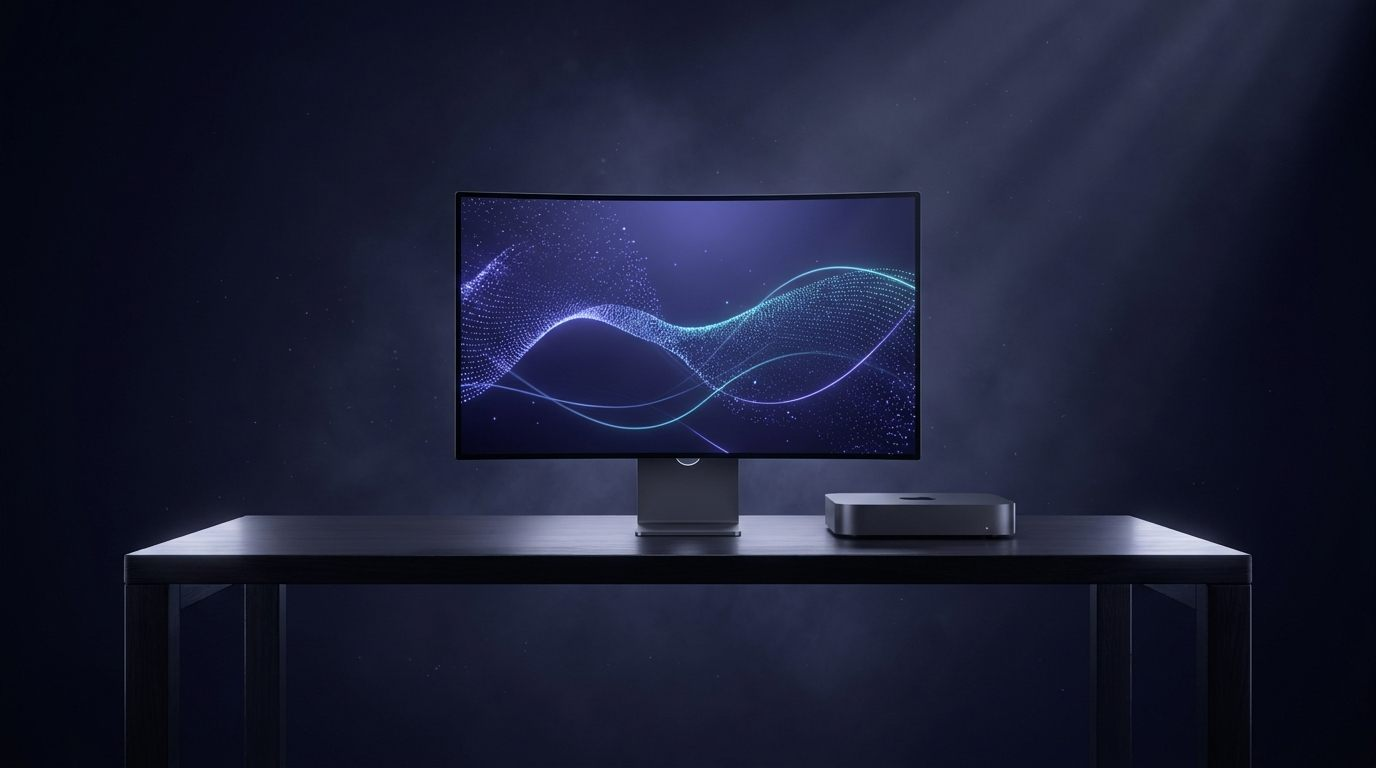
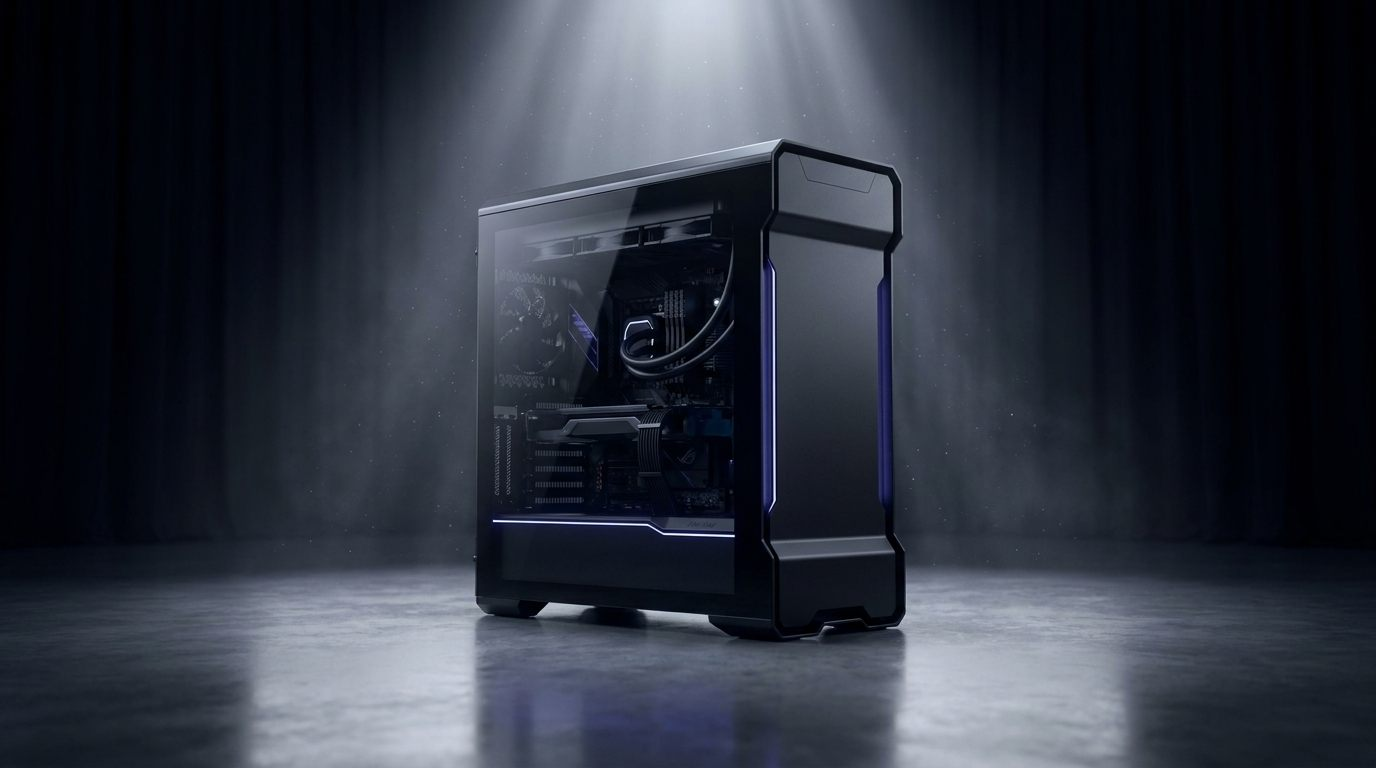
Roboter klickbar (Sprechblase wie RTC), Alienware-PC-Animation (leuchtet/faehrt hoch), Taste-Pass: Hero-Tagline raus + Eyebrows reduziert

diff --git a/static/js/main.js b/static/js/main.js
@@ -59,6 +59,42 @@
   (function initRobot() {
     const stage = document.getElementById("robotStage");
     if (!stage) return;
+
+    // Klickbarer Assistent (wie RTC): Sprechblase + Hinweis. Funktioniert immer,
+    // egal ob der 3D-Roboter oder der Fallback-Cutout angezeigt wird.
+    let viewer = null;
+    (function enableRobotChat() {
+      const bubble = document.getElementById("robotBubble");
+      const hint = document.getElementById("robotHint");
+      const tap = document.getElementById("robotTap");
+      if (!bubble) return;
+      const msgs = [
+        "Hi! Schön, dass du da bist.",
+        "Wir bauen Webseiten, Hosting, KI und SEO. Alles aus einer Hand.",
+        "Schon ab 350 Euro hast du deine eigene Webseite.",
+        "Tipp: Hol dir ein unverbindliches Angebot in 24 Stunden.",
+        "Bereit? Klick auf Projekt anfragen, wir melden uns schnell.",
+      ];
+      let idx = -1, hideT, started = false;
+      function say() {
+        started = true;
+        idx = (idx + 1) % msgs.length;
+        bubble.textContent = msgs[idx];
+        bubble.classList.add("show");
+        if (hint) hint.classList.remove("show");
+        clearTimeout(hideT);
+        hideT = setTimeout(function () { bubble.classList.remove("show"); }, 4400);
+      }
+      stage.addEventListener("click", say);
+      stage.addEventListener("keydown", function (e) { if (e.key === "Enter" || e.key === " ") { e.preventDefault(); say(); } });
+      if (hint) hint.addEventListener("click", function (e) { e.stopPropagation(); say(); });
+      if (tap) tap.addEventListener("click", function (e) { e.stopPropagation(); say(); });
+      stage.classList.add("chat-on");
+      if (hint && !reduce) setTimeout(function () {
+        if (!started) { hint.classList.add("show"); setTimeout(function () { if (!started) hint.classList.remove("show"); }, 6000); }
+      }, 1800);
+    })();
+
     const hasWebGL = (function () {
       try { const c = document.createElement("canvas");
         return !!(window.WebGLRenderingContext && (c.getContext("webgl") || c.getContext("experimental-webgl")));
@@ -75,11 +111,11 @@
     runtime.src = "https://unpkg.com/@splinetool/viewer@1.12.97/build/spline-viewer.js";
     document.head.appendChild(runtime);
 
-    const viewer = document.createElement("spline-viewer");
+    viewer = document.createElement("spline-viewer");
     viewer.setAttribute("url", url);
     viewer.style.cssText = "width:100%;height:100%;display:block;background:transparent";
-    if (isMobile) viewer.style.pointerEvents = "none"; // Mobile: Scrollen nicht blockieren
     canvas.appendChild(viewer);
+    viewer.addEventListener("click", function () { stage.click(); }); // Klick auf 3D-Roboter -> Sprechblase
 
     let settled = false;
     const ready = function () {

diff --git a/templates/index.html b/templates/index.html
@@ -55,10 +55,9 @@
           <a class="btn btn-lg btn-magnetic" href="#kontakt">{{ c.cta_text }}<svg viewBox="0 0 24 24" class="ic-arrow" aria-hidden="true"><path d="M5 12h14M13 6l6 6-6 6" fill="none" stroke="currentColor" stroke-width="1.8" stroke-linecap="round" stroke-linejoin="round"/></svg></a>
           <a class="btn btn-ghost btn-lg" href="#leistungen">Leistungen ansehen</a>
         </div>
-        <p class="hero-note">{{ c.cta_sub }}</p>
       </div>
       <div class="hero-figure" data-reveal>
-        <div class="robot-stage" id="robotStage" data-spline="https://prod.spline.design/kZDDjO5HuC9GJUM2/scene.splinecode">
+        <div class="robot-stage" id="robotStage" role="button" tabindex="0" aria-label="3D-Assistent, klick mich" data-spline="https://prod.spline.design/kZDDjO5HuC9GJUM2/scene.splinecode">
           <div class="hero-figure-glow" aria-hidden="true"></div>
           <!-- 3D-Roboter (Spline) folgt der Maus; wird per JS auf Geräten mit WebGL eingehängt -->
           <div class="robot-canvas" id="robotCanvas" aria-hidden="true">
@@ -66,7 +65,11 @@
           </div>
           <!-- Fallback: freigestellter Roboter (ohne WebGL / reduced-motion) -->
           {% if c.robot_image %}<img src="{{ c.robot_image }}" alt="WVM-IT Assistent" class="robot robot-fallback" width="820" height="1098" fetchpriority="high">{% endif %}
+          <!-- Klickbar wie bei RTC: Sprechblase + einladender Hinweis -->
+          <div class="robot-bubble" id="robotBubble" aria-live="polite"></div>
+          <div class="robot-hint" id="robotHint" aria-hidden="true">Klick mich</div>
         </div>
+        <button class="robot-tap" id="robotTap" type="button">Klick mich</button>
         <div class="hero-price-chip" aria-hidden="true"><span>Webseiten</span><strong>ab {{ c.preis_ab }} €</strong></div>
       </div>
     </div>
@@ -76,9 +79,9 @@
   <!-- ── Trenner-Text: Überleitung zur ersten Scroll-Animation ─────────────── -->
   <section class="band">
     <div class="wrap band-in" data-reveal>
-      <span class="band-kick">Von der Idee zur fertigen Seite</span>
-      <h2 class="band-h">Sie sagen, was Sie brauchen. Wir bauen den Rest.</h2>
-      <p class="band-p">Scrollen Sie und sehen Sie zu, wie aus einem leeren Bildschirm Ihre Webseite entsteht.</p>
+      <span class="band-kick">Performance ab der ersten Sekunde</span>
+      <h2 class="band-h">Wir bauen mit kompromissloser Leistung.</h2>
+      <p class="band-p">Scrollen Sie und sehen Sie die Maschine hinter schnellen Webseiten hochfahren.</p>
     </div>
   </section>
 
@@ -91,10 +94,10 @@
       </video>
       <div class="scrolly-shade" aria-hidden="true"></div>
       <div class="wrap scrolly-overlay">
-        <div class="scrolly-step is-active" data-step="0"><h2>Aus Ihrer Idee wird eine Webseite.</h2><p>Individuell gestaltet, sauber gebaut, auf Anfragen ausgelegt.</p></div>
-        <div class="scrolly-step" data-step="1"><h3>Design</h3><p>Ein Entwurf auf Premium-Niveau, abgestimmt auf Ihre Marke.</p></div>
-        <div class="scrolly-step" data-step="2"><h3>Entwicklung</h3><p>Schneller, sauberer Code. Responsiv auf jedem Gerät.</p></div>
-        <div class="scrolly-step" data-step="3"><h3>Launch</h3><p>Wir gehen live und messen, was die Seite für Sie bringt.</p></div>
+        <div class="scrolly-step is-active" data-step="0"><h2>Leistung, die man spürt.</h2><p>Schnelle Technik und sauberer Code, von der ersten Zeile an.</p></div>
+        <div class="scrolly-step" data-step="1"><h3>Schnell</h3><p>Optimierte Ladezeiten, die Ihre Besucher nicht warten lassen.</p></div>
+        <div class="scrolly-step" data-step="2"><h3>Modern</h3><p>Aktuelle Technik, sauber gebaut und langfristig wartbar.</p></div>
+        <div class="scrolly-step" data-step="3"><h3>Stabil</h3><p>Bleibt schnell, auch wenn viele Besucher gleichzeitig kommen.</p></div>
       </div>
       <div class="scrolly-progress" aria-hidden="true"><span class="scrolly-bar"></span></div>
     </div>
@@ -147,7 +150,6 @@
   <section class="section" id="leistungen">
     <div class="wrap">
       <header class="sec-head" data-reveal>
-        <span class="eyebrow eyebrow-dark"><span class="dot"></span>Leistungen</span>
         <h2 class="section-t">Alles für Ihren Auftritt, aus einer Hand.</h2>
         <p class="section-lead">Design, Technik, Hosting und Sichtbarkeit greifen nahtlos ineinander, von der ersten Idee bis zum laufenden Betrieb.</p>
       </header>
@@ -226,7 +228,6 @@
   <section class="section section-alt" id="preise">
     <div class="wrap">
       <header class="sec-head" data-reveal>
-        <span class="eyebrow eyebrow-dark"><span class="dot"></span>Pakete</span>
         <h2 class="section-t">Klare Pakete, faire Preise.</h2>
         <p class="section-lead">Transparente Startpreise. Das passende Angebot stimmen wir im Gespräch auf Ihr Projekt ab.</p>
       </header>

diff --git a/static/css/style.css b/static/css/style.css
@@ -96,6 +96,28 @@ body::before{content:"";position:fixed;inset:0;z-index:-2;pointer-events:none;
   filter:drop-shadow(0 30px 60px rgba(0,0,0,.55)) drop-shadow(0 0 40px rgba(109,94,252,.22));animation:float 7s ease-in-out infinite;transition:opacity .5s}
 .robot-stage.spline-on .robot-fallback{opacity:0}
 @keyframes float{50%{transform:translateY(-12px)}}
+.robot-stage{cursor:pointer}
+/* Klickbarer Roboter: Sprechblase + Hinweis (wie RTC, im WVM-Dark-Stil) */
+.robot-bubble{position:absolute;left:50%;top:2%;transform:translate(-50%,-8px) scale(.92);z-index:9;
+  max-width:min(280px,86%);padding:12px 16px;border-radius:16px 16px 16px 5px;
+  background:linear-gradient(180deg,var(--surface),var(--surface-2));border:1px solid var(--line-2);color:var(--ink);
+  font-size:.86rem;font-weight:500;line-height:1.45;box-shadow:var(--shadow-lg);backdrop-filter:blur(10px);
+  opacity:0;pointer-events:none;transition:opacity .3s,transform .4s cubic-bezier(.34,1.56,.64,1);text-align:center}
+.robot-bubble.show{opacity:1;transform:translate(-50%,0) scale(1)}
+.robot-bubble::after{content:"";position:absolute;left:26px;bottom:-6px;width:12px;height:12px;
+  background:var(--surface-2);border-right:1px solid var(--line-2);border-bottom:1px solid var(--line-2);transform:rotate(45deg)}
+.robot-hint{position:absolute;left:50%;bottom:4%;transform:translateX(-50%);z-index:9;display:inline-flex;align-items:center;gap:7px;
+  padding:8px 15px;border-radius:99px;color:#fff;font-size:.74rem;font-weight:600;letter-spacing:.03em;white-space:nowrap;
+  background:linear-gradient(140deg,var(--accent),var(--accent2));box-shadow:0 10px 26px -10px color-mix(in srgb,var(--accent) 80%,transparent);
+  opacity:0;pointer-events:none;transition:opacity .4s}
+.robot-hint::before{content:"";width:7px;height:7px;border-radius:50%;background:#fff;animation:pulse 1.4s ease-in-out infinite}
+.robot-hint.show{opacity:1;animation:rtcHintFloat 2.4s ease-in-out infinite}
+@keyframes rtcHintFloat{0%,100%{transform:translateX(-50%) translateY(0)}50%{transform:translateX(-50%) translateY(-5px)}}
+.robot-tap{display:none;width:fit-content;margin:16px auto 0;align-items:center;gap:8px;padding:11px 24px;border-radius:99px;border:none;cursor:pointer;
+  background:linear-gradient(140deg,var(--accent),var(--accent2));color:#fff;font:inherit;font-weight:600;font-size:.9rem;
+  box-shadow:0 10px 26px -10px color-mix(in srgb,var(--accent) 80%,transparent);transition:transform .18s var(--ease)}
+.robot-tap::before{content:"";width:8px;height:8px;border-radius:50%;background:#fff}
+.robot-tap:active{transform:translateY(1px)}
 
 /* ── Trenner-Bänder (abgetrennte Textteile zwischen den Animationen) ──────── */
 .band{padding:clamp(64px,9vw,110px) 0;border-block:1px solid var(--line);